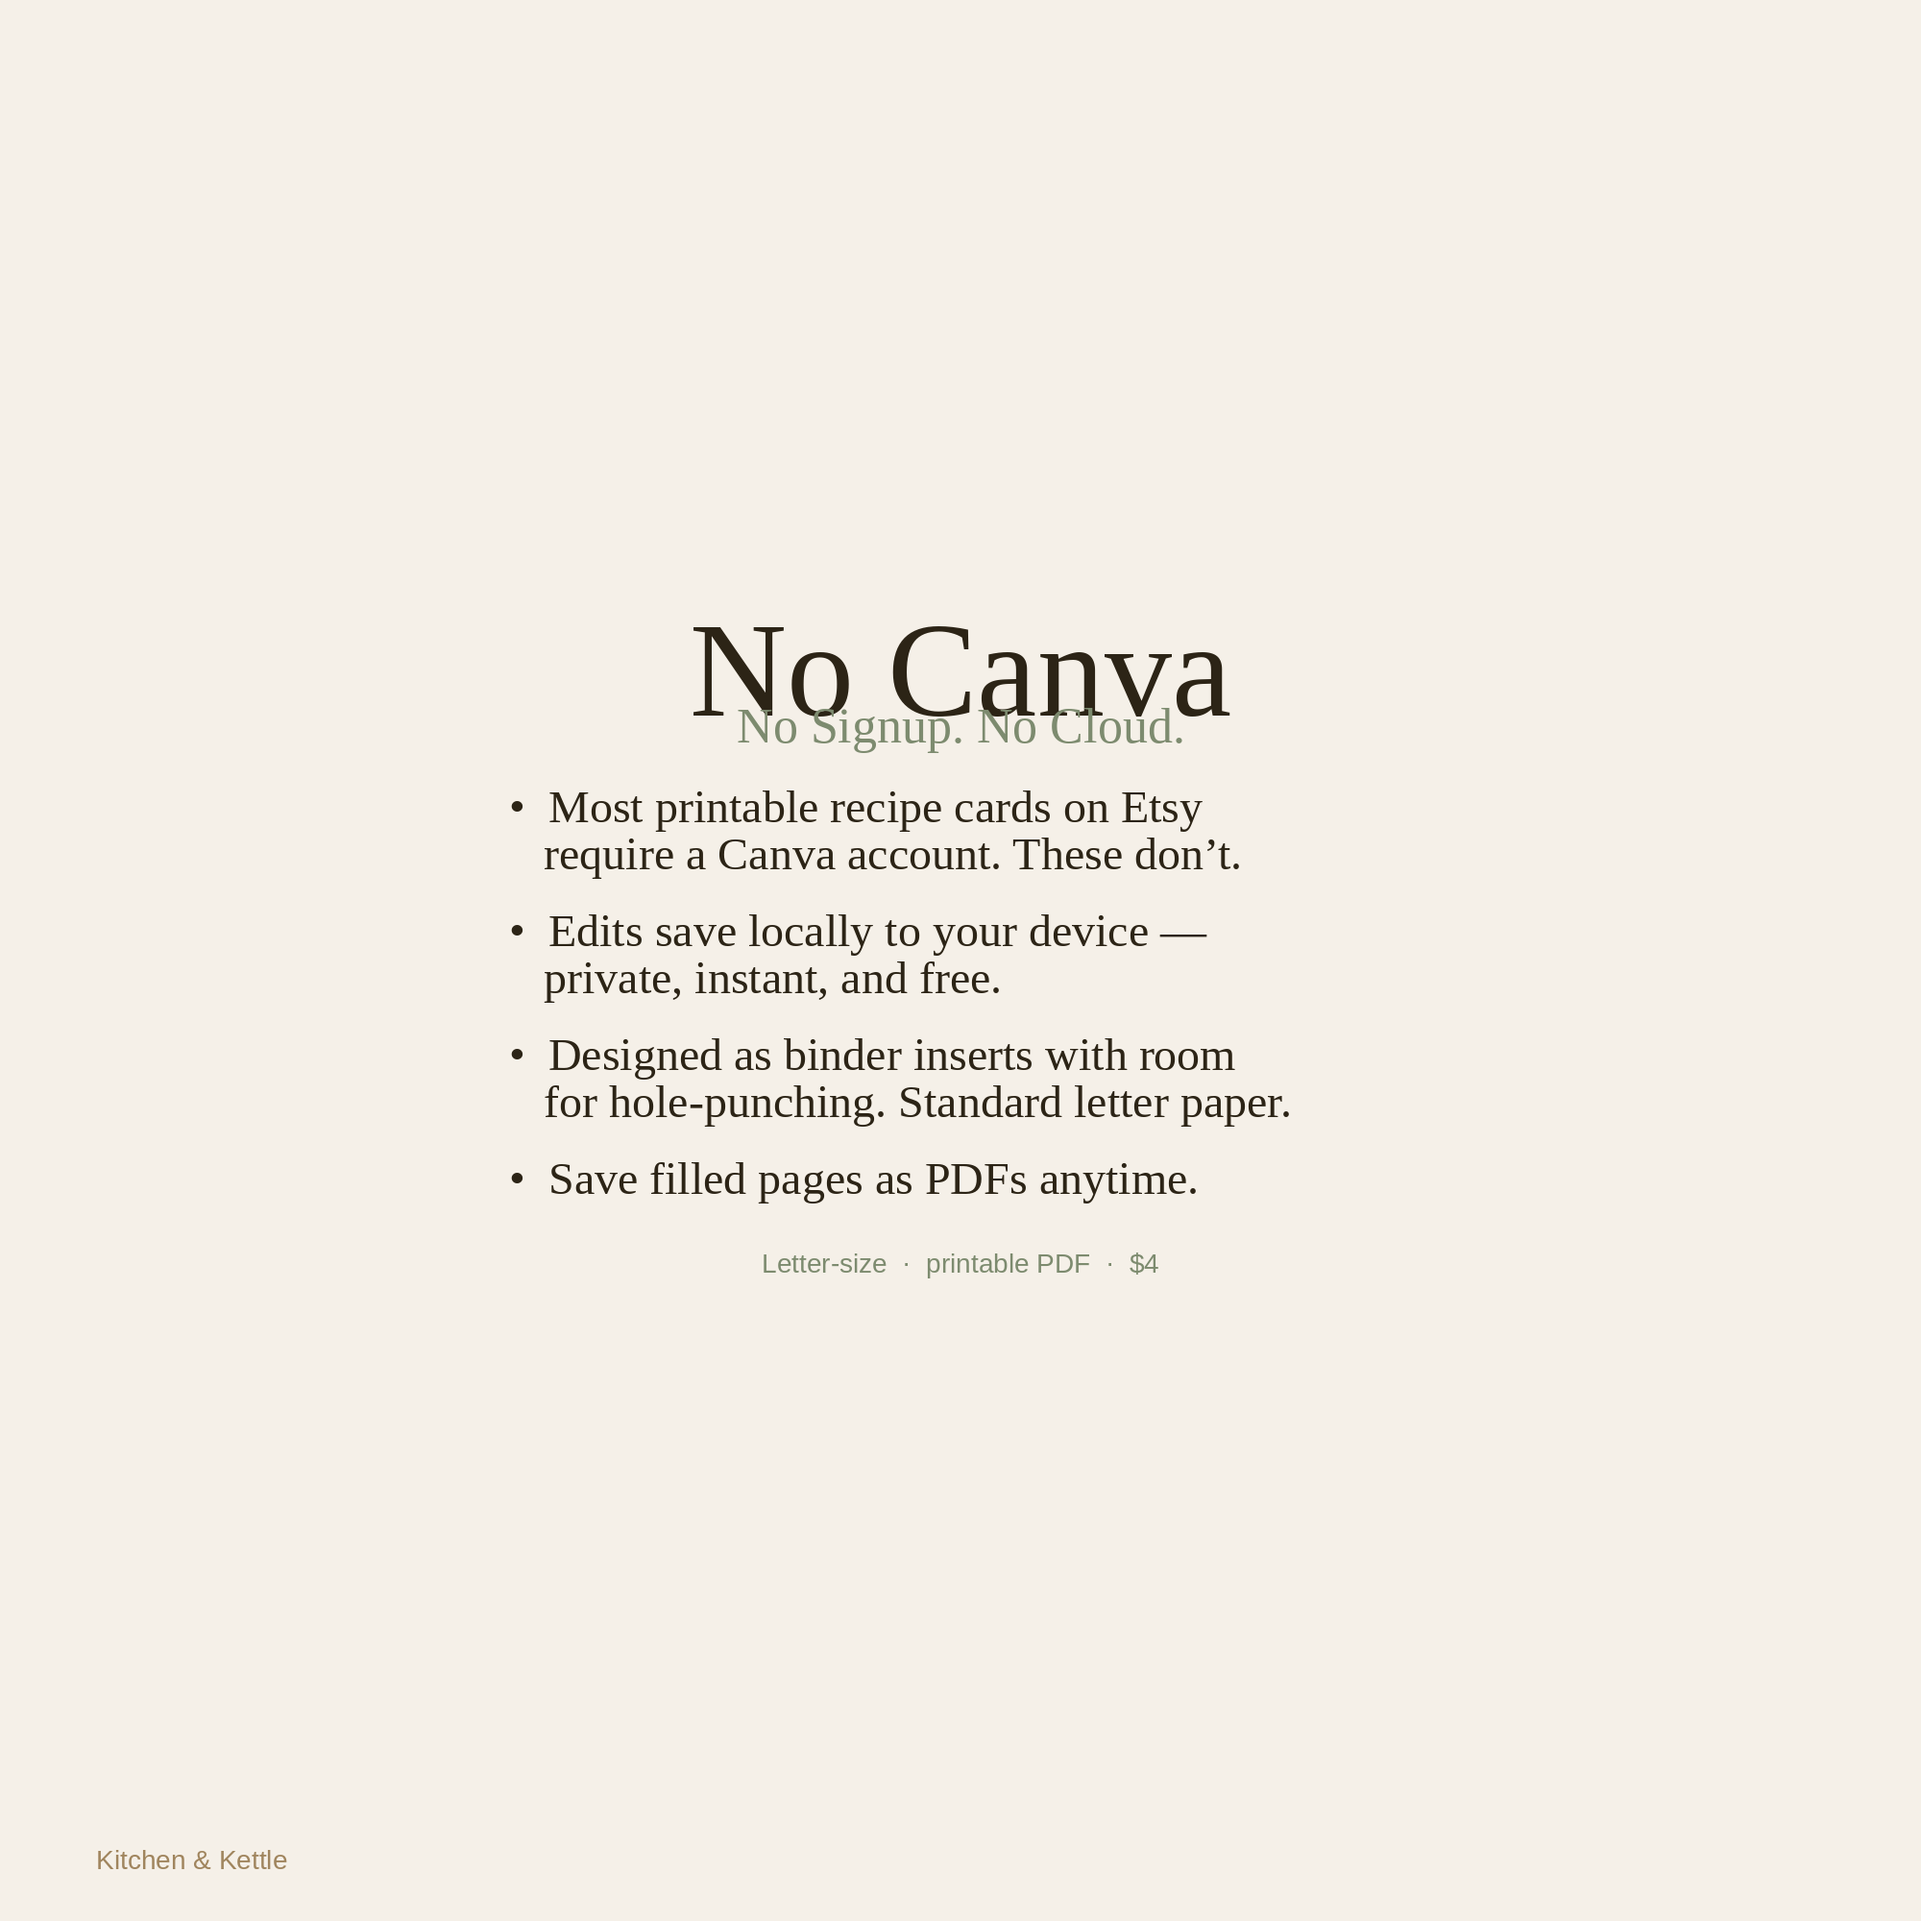
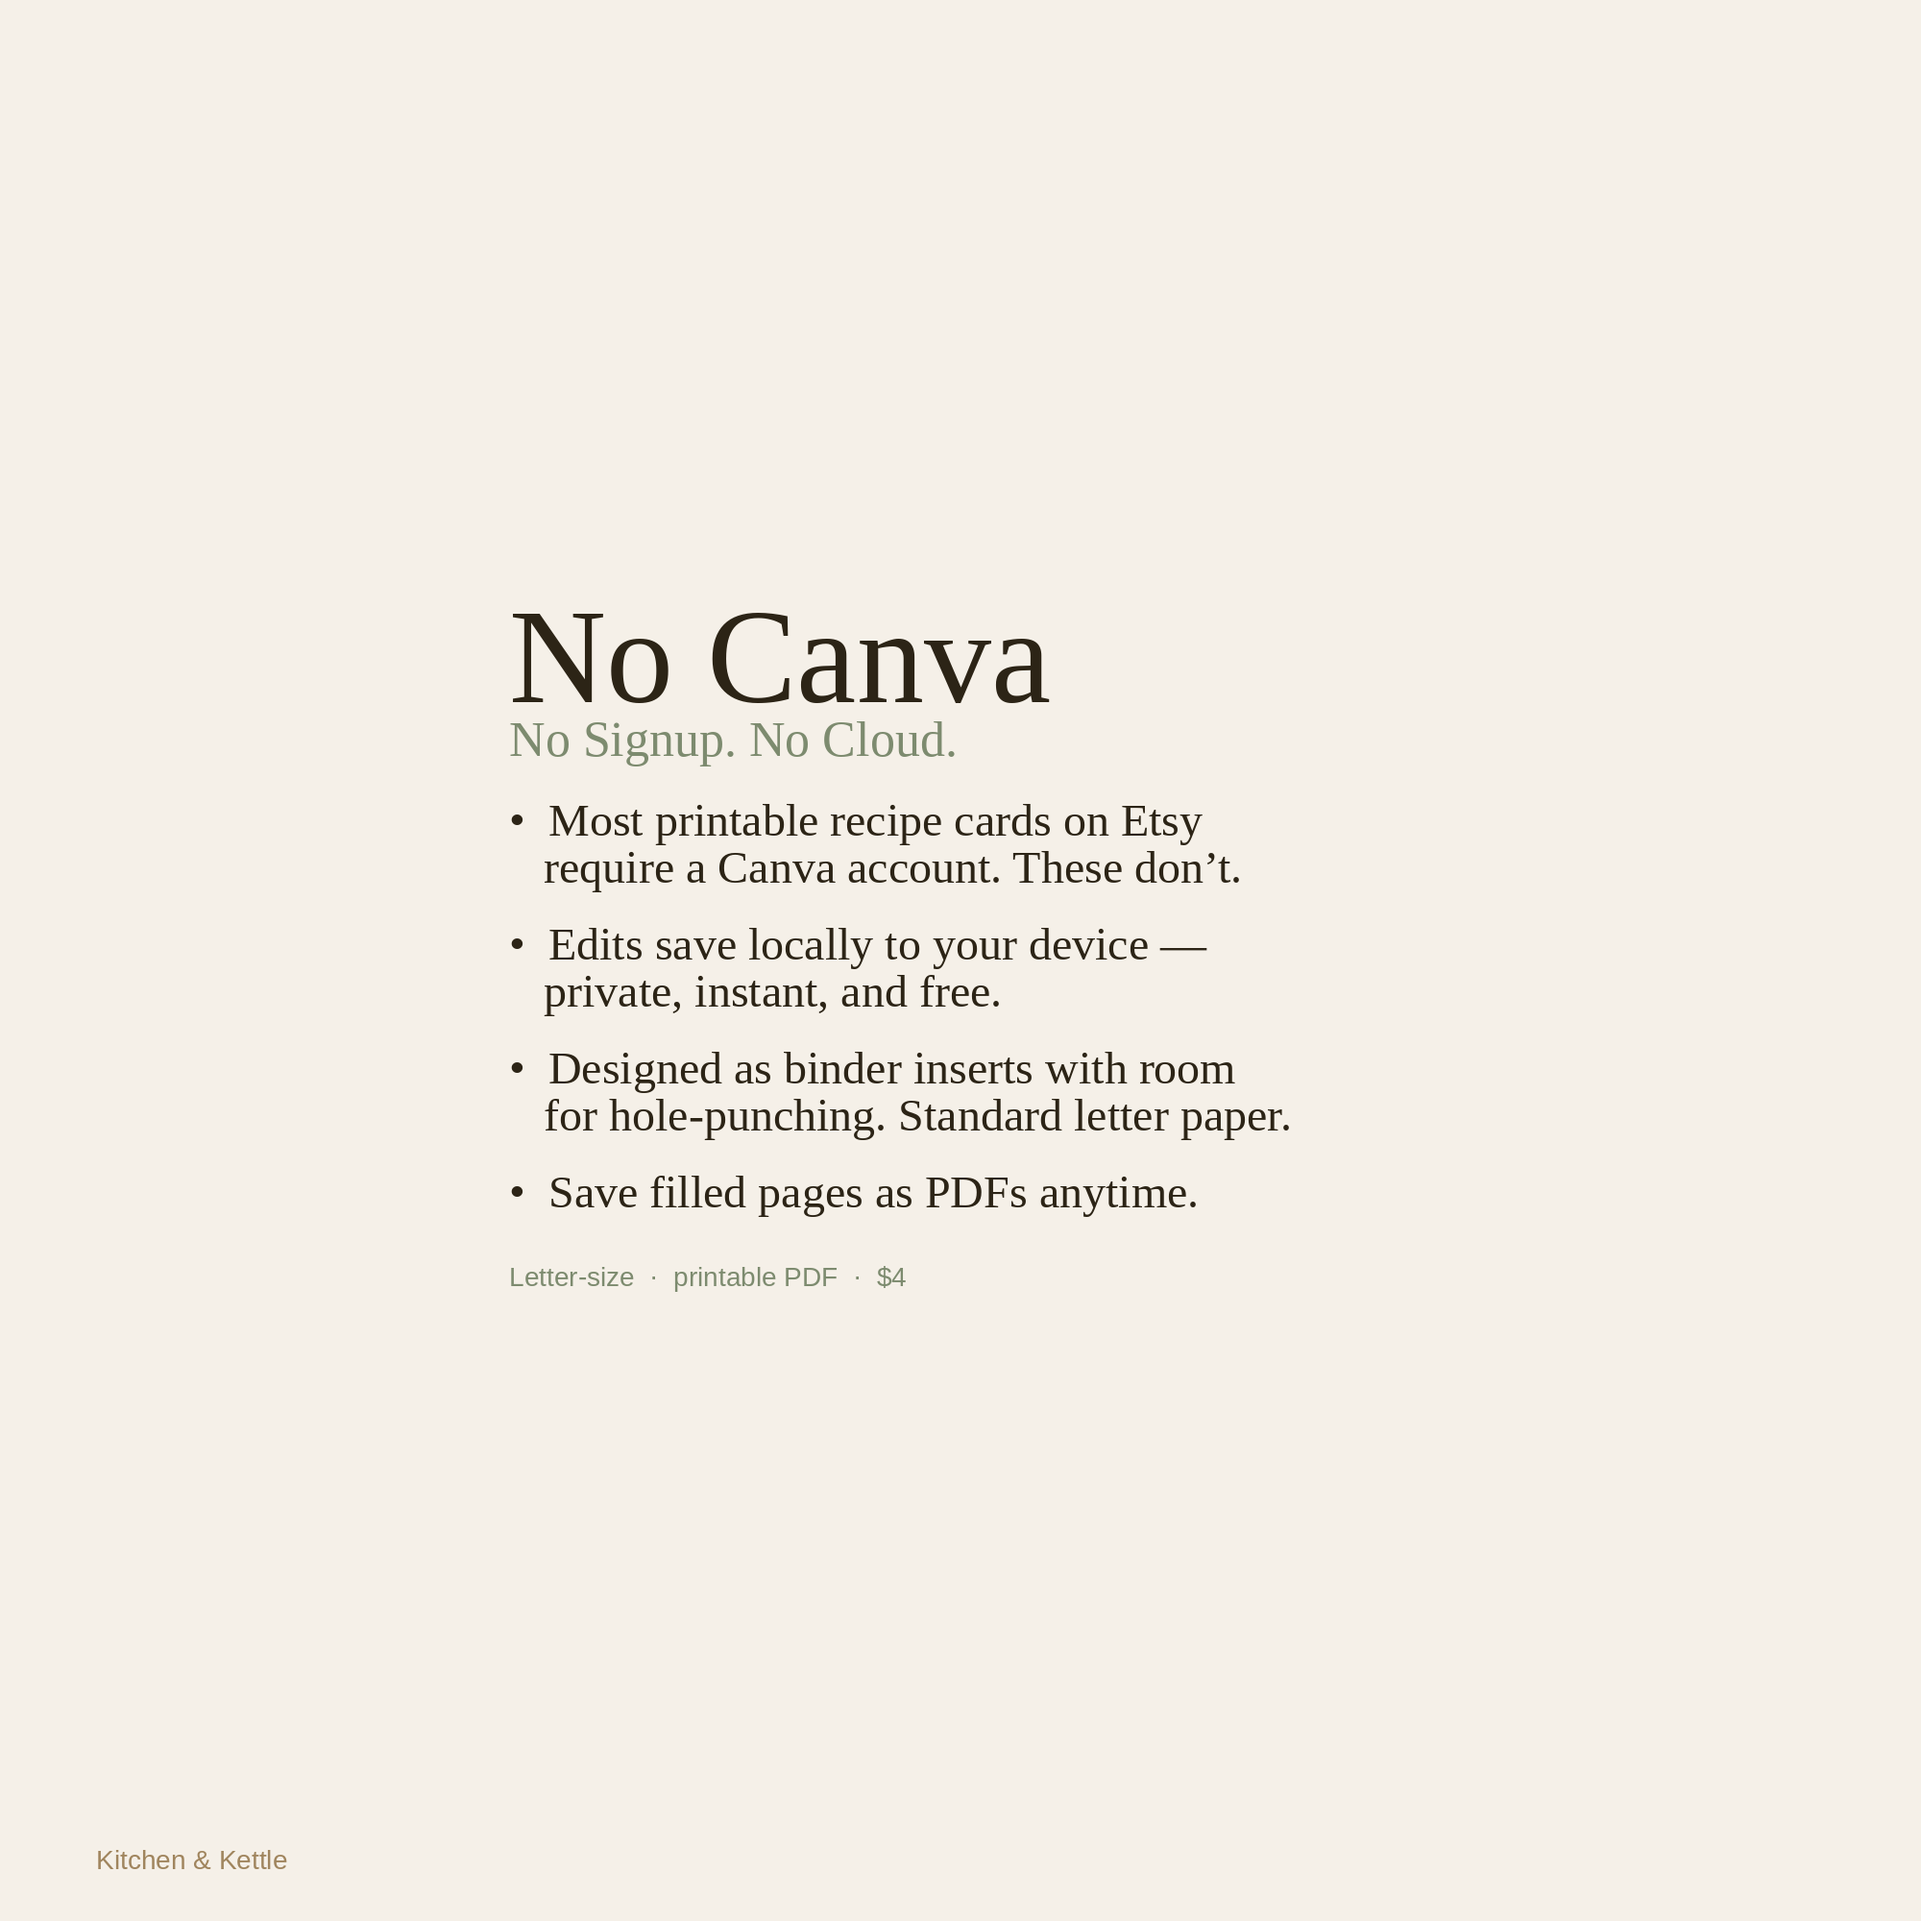
Recipe Cards: left-align all info card text, fix title/subtitle overlap

Changed region(s): [[0.248, 0.31, 0.682, 0.682], [0.279, 0.651, 0.31, 0.682]]

diff --git a/digital-products/recipe-cards/generate_info_cards.py b/digital-products/recipe-cards/generate_info_cards.py
@@ -33,7 +33,7 @@ def make_card(filename, title, subtitle, bullets, page_note):
     bullet_h = bullet_font.getbbox("Test")[3] - bullet_font.getbbox("Test")[1]
     note_h = note_font.getbbox(page_note)[3] - note_font.getbbox(page_note)[1]
 
-    gap_title_sub = 12
+    gap_title_sub = 40
     gap_sub_bullets = 40
     gap_between_bullets = 18
     gap_before_note = 50
@@ -46,30 +46,28 @@ def make_card(filename, title, subtitle, bullets, page_note):
     start_y = (2000 - total_h) // 2
     y = start_y
 
-    # --- Title (centered) ---
-    tw = title_font.getbbox(title)[2] - title_font.getbbox(title)[0]
-    draw.text((1000 - tw // 2, y), title, font=title_font, fill=INK)
+    # --- Everything left-aligned at block_x ---
+    block_x = 530
+
+    # Title
+    draw.text((block_x, y), title, font=title_font, fill=INK)
     y += title_h + gap_title_sub
 
-    # --- Subtitle (centered, sage) ---
-    sw = subtitle_font.getbbox(subtitle)[2] - subtitle_font.getbbox(subtitle)[0]
-    draw.text((1000 - sw // 2, y), subtitle, font=subtitle_font, fill=SAGE)
+    # Subtitle (sage)
+    draw.text((block_x, y), subtitle, font=subtitle_font, fill=SAGE)
     y += subtitle_h + gap_sub_bullets
 
-    # --- Bullets (left-aligned within a centered block) ---
-    # The block is left-aligned at a fixed X for all bullets
-    block_x = 530  # left edge of bullet text block (matches cast iron card)
+    # Bullets
     for line in bullets:
         if line == '':
-            y += bullet_h  # blank line spacer
+            y += bullet_h
         else:
             draw.text((block_x, y), line, font=bullet_font, fill=INK)
             y += bullet_h + gap_between_bullets
     y += gap_before_note
 
-    # --- Page note (centered, sage) ---
-    nw = note_font.getbbox(page_note)[2] - note_font.getbbox(page_note)[0]
-    draw.text((1000 - nw // 2, y), page_note, font=note_font, fill=SAGE)
+    # Page note (sage)
+    draw.text((block_x, y), page_note, font=note_font, fill=SAGE)
 
     # --- Brand label (bottom-left) ---
     brand = "Kitchen & Kettle"
